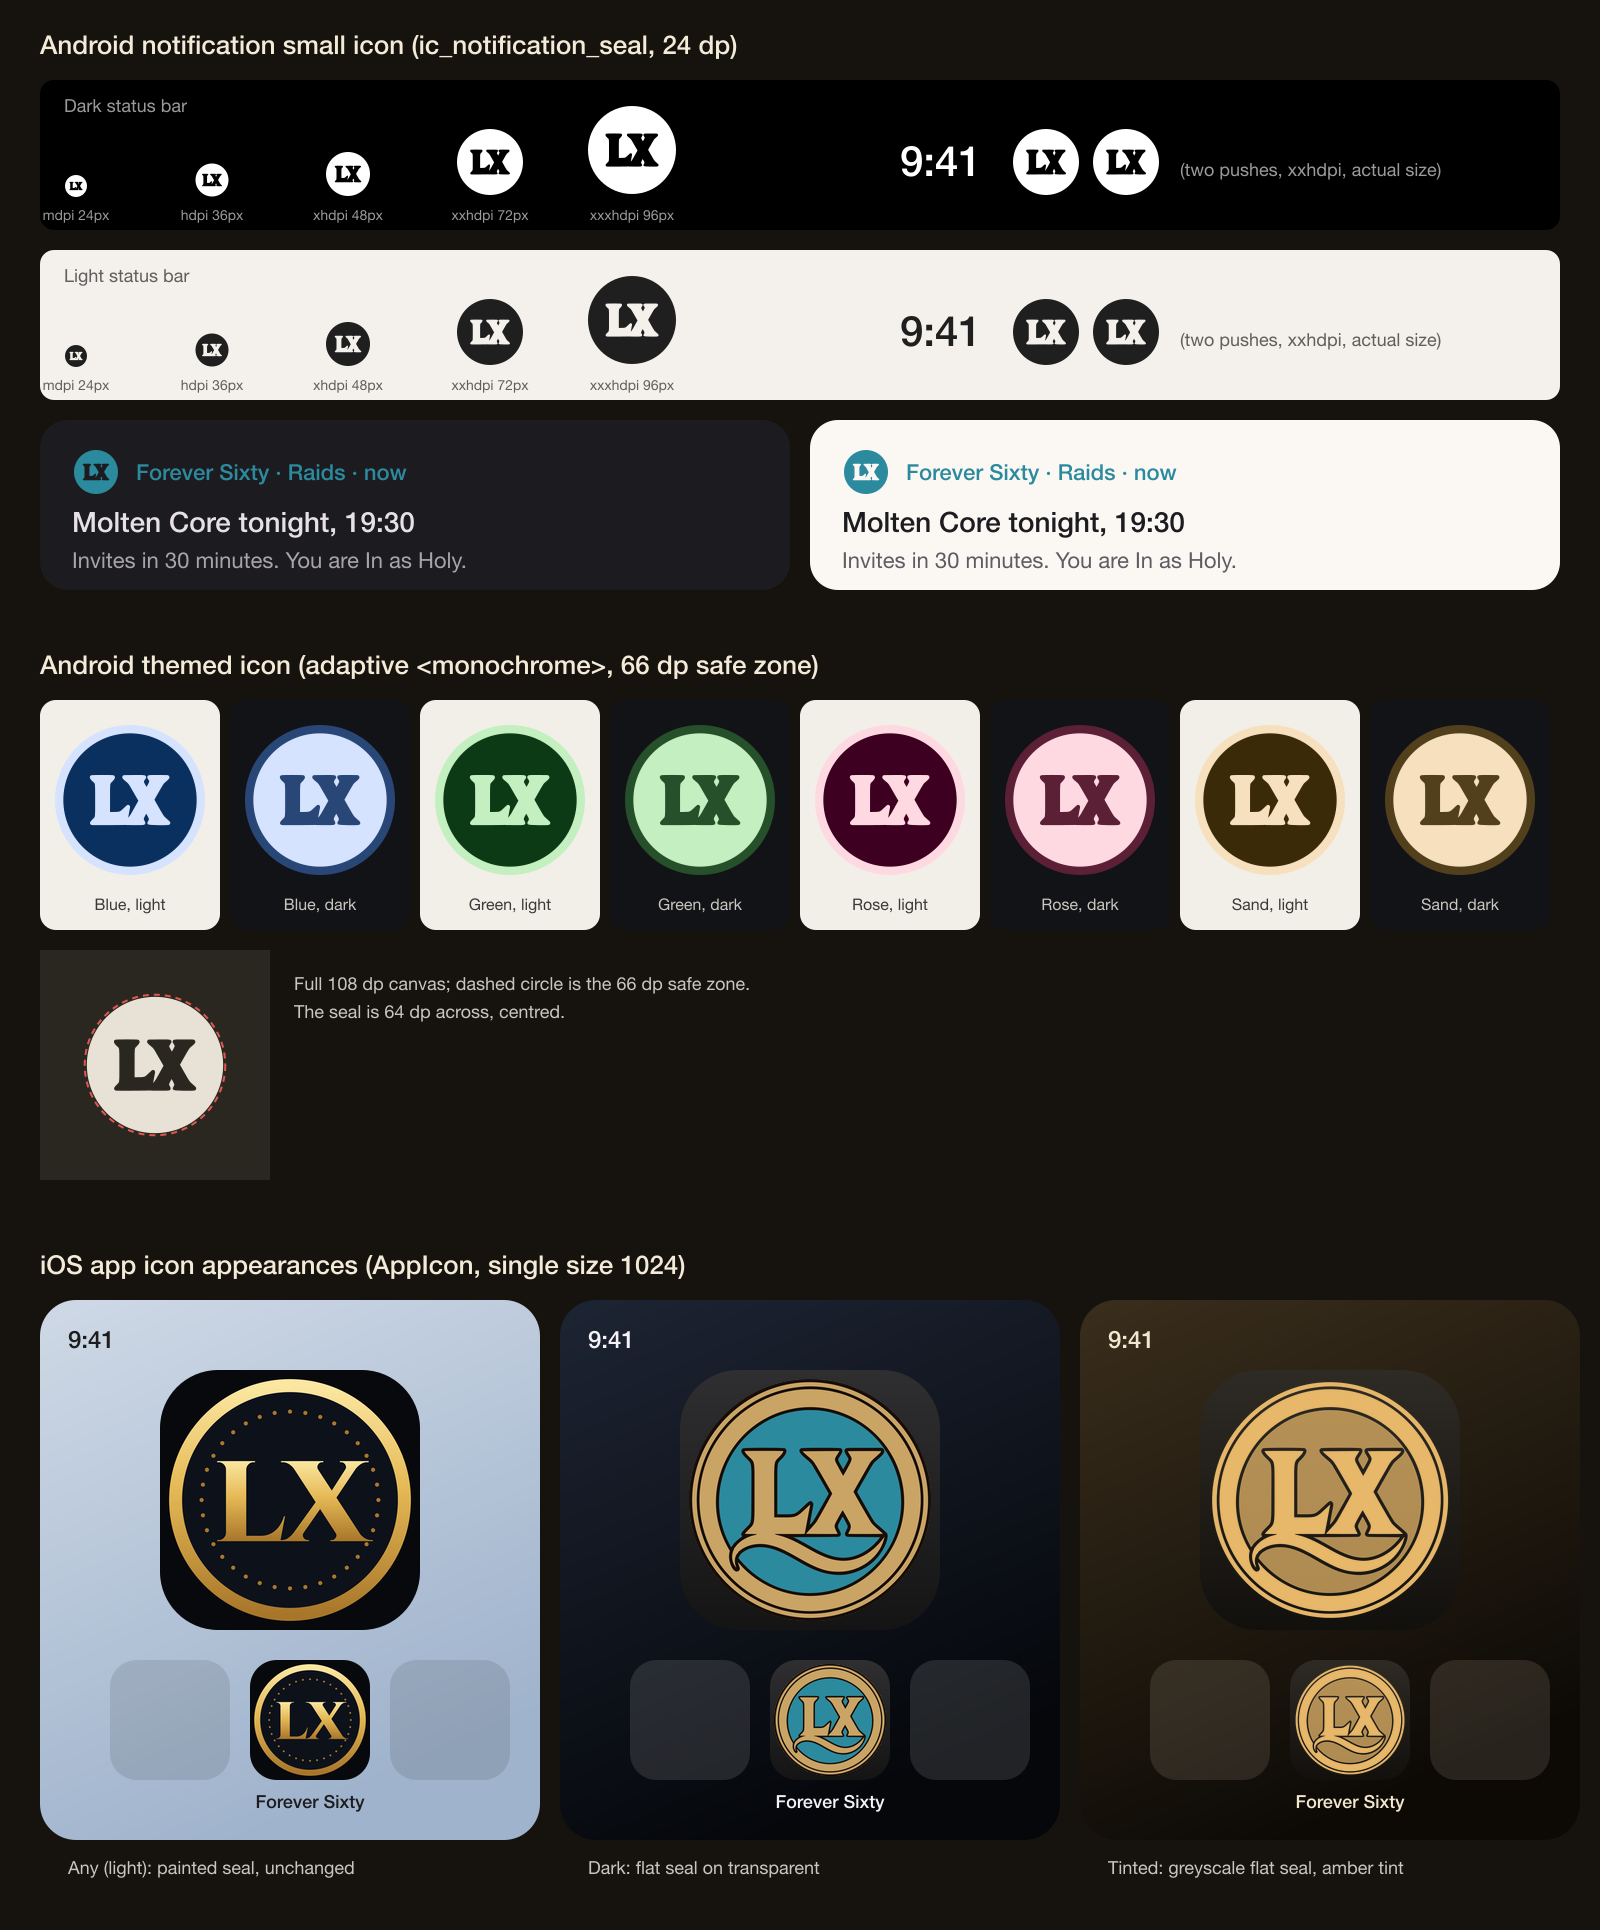
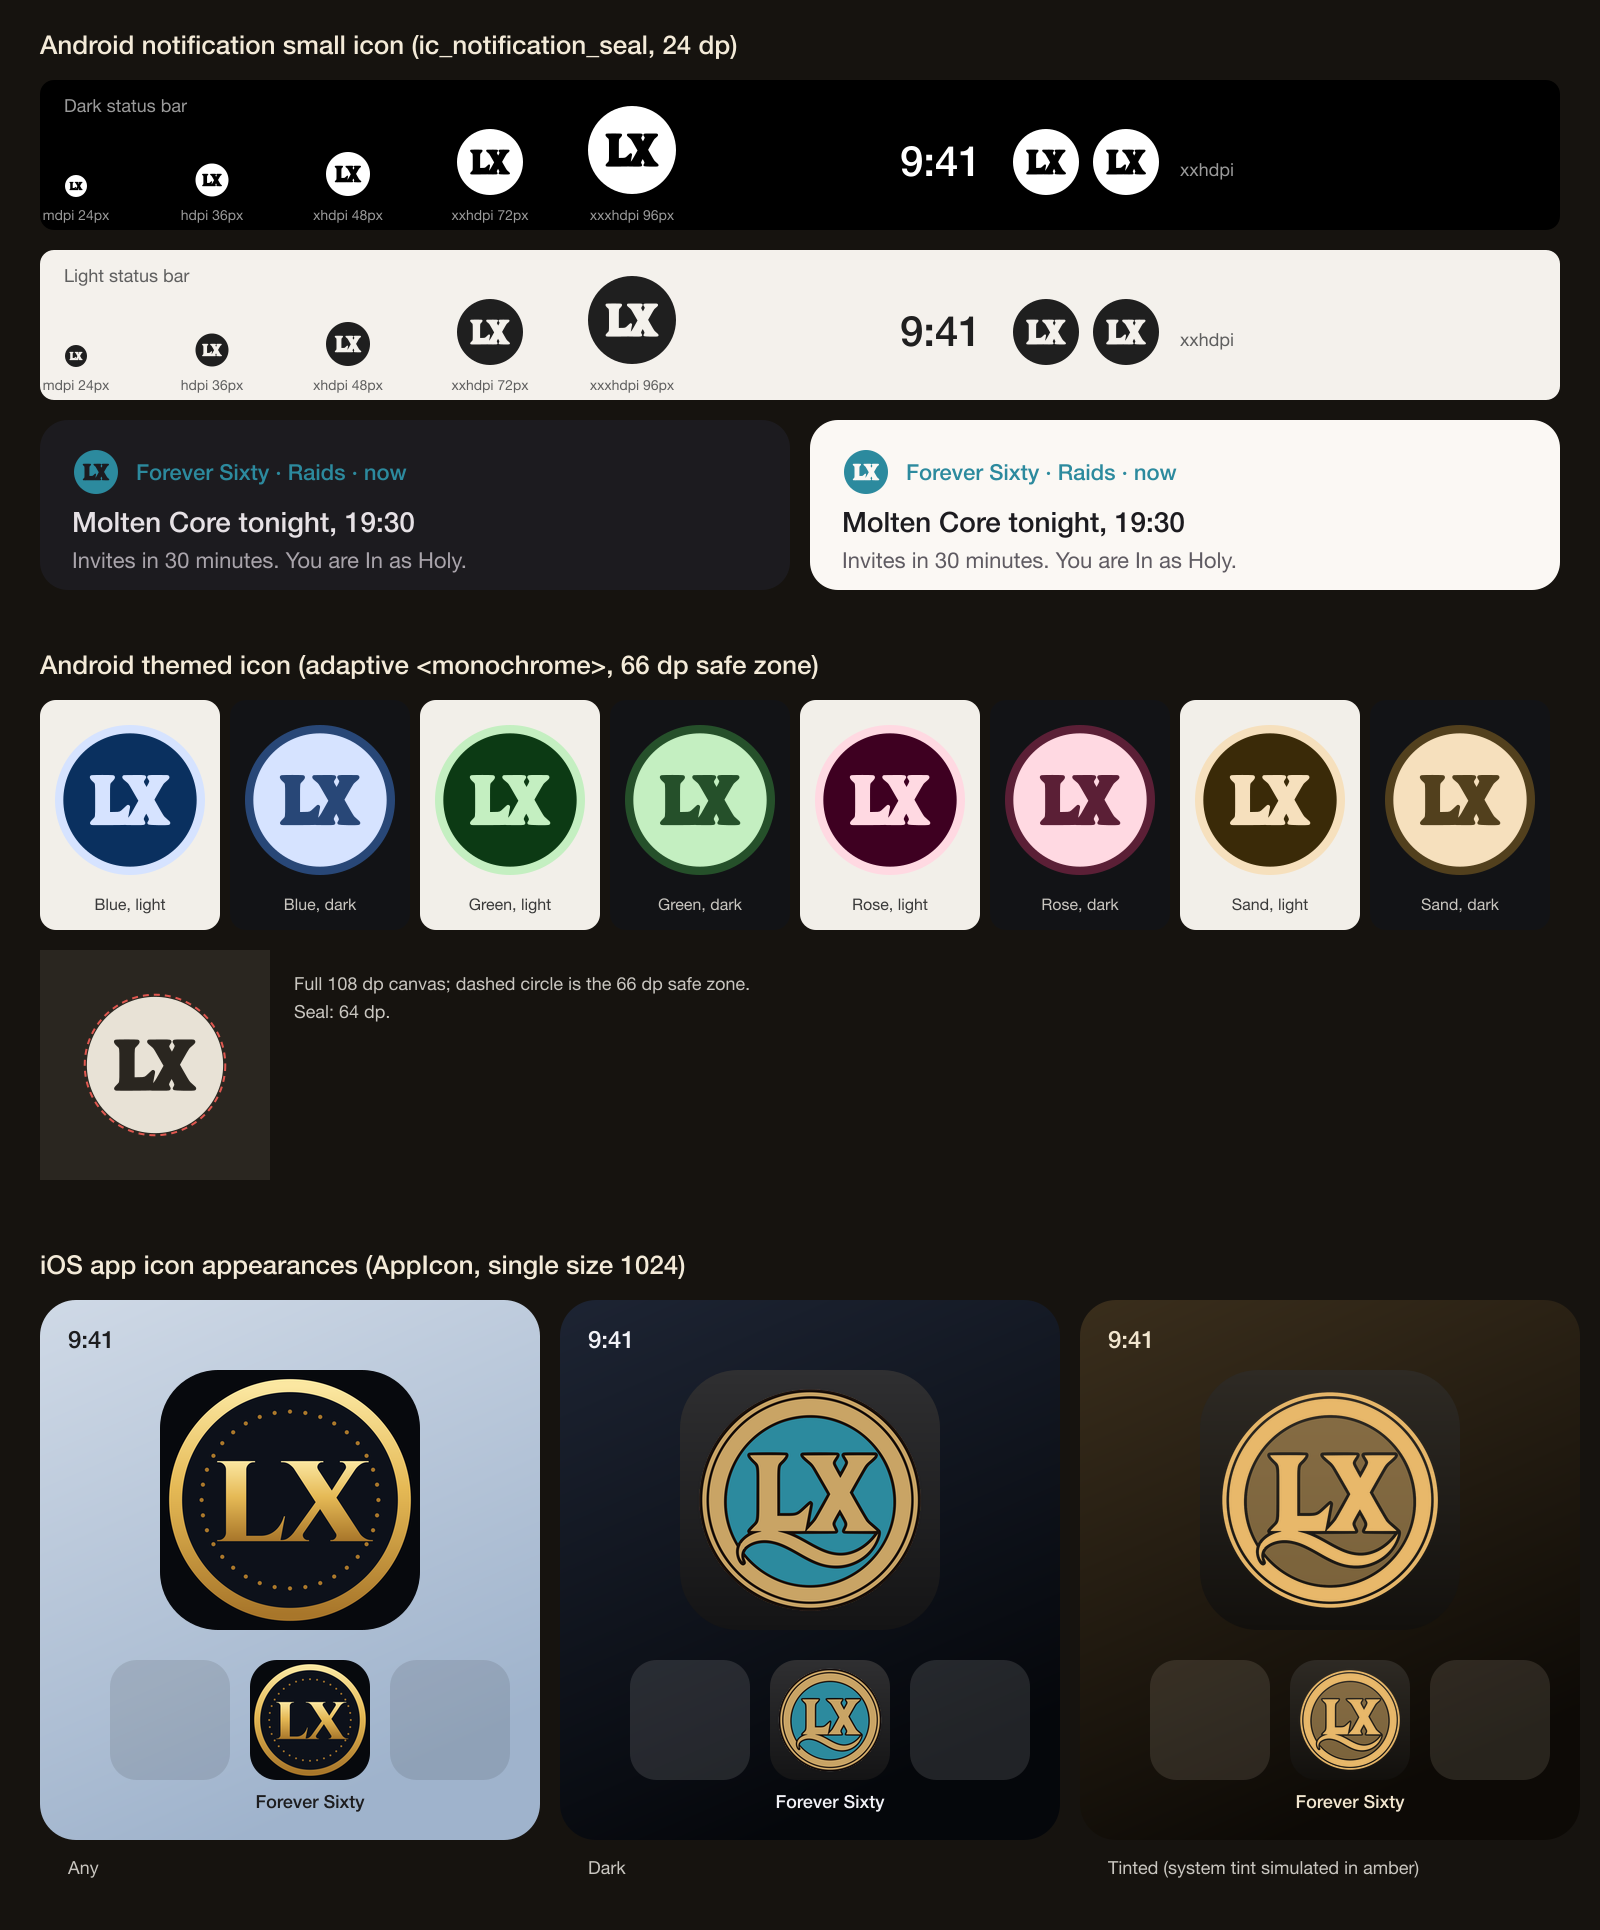
fix(apps): inset the flat seal on iOS dark/tinted, tinted disc to mid grey; review verdicts
ux-designer SHIP and ai-slop-reviewer PASS saved in design/reviews/2026-11-10-app-icons.

Claude-Session: https://claude.ai/code/session_01Wrtayzxz2jvhjren4pWihn

diff --git a/design/reviews/2026-11-10-app-icons/ux-designer.md b/design/reviews/2026-11-10-app-icons/ux-designer.md
@@ -1,0 +1,26 @@
+# ux-designer: app icon variants (2026-11-10)
+
+**Verdict: SHIP.** No must-fix items.
+
+Reviewed: `preview.png`, the drawables, `ic_launcher.xml`, the AppIcon set and the generators, at commit 78e72f574.
+
+## Should
+1. **LiveNotifier keeps gold.**
+   - Live raid and sim notifications use `setColor(FsColor.gold)`, while every other push uses turquoise.
+   - Gold should stay only if the progress bar needs it. Otherwise move LiveNotifier to `PushNotifier.builder`.
+   - Gold header text on a light shade is about 2.3:1.
+   - **Status:** left for the owner, because this lane stays out of LiveNotifier while the Android restyle lands.
+2. **iOS Dark filled the tile edge to edge.** It needed a 6 to 8% inset.
+   - **Fixed:** the flat seal is now drawn at 85% of the canvas, which is a 7.5% margin.
+3. **Tinted could merge with the system background.** Check on a device.
+   - **Adjusted:** a levels curve now puts the disc at mid grey (about 120), apart from both the white LX and the black outline.
+   - Still needs a device check. The simulator is unavailable on this Mac.
+4. **mdpi serifs are about 1 px.** The icon reads as LX but only just. Check once on an mdpi emulator. This is polish.
+
+## Checks passed
+- **Notification icon:** `ic_notification_seal` is white on transparent, 22 dp inside the 24 dp grid. FCM's default icon and colour are set in the manifest.
+- **Push builders:** both share `PushNotifier.builder`.
+- **Themed icon:** the `<monochrome>` layer is 64 dp, inside the 66 dp safe zone. It reads in all eight tints.
+- **iOS asset catalog:** `Contents.json` is valid, with the dark and tinted luminosity appearances. Any is unchanged.
+- **Palette:** Dark uses only the three brand colours.
+- **Build output:** the generated `mipmap-anydpi-v26/ic_launcher.xml` in the build carries the `<monochrome>` line.

diff --git a/design/reviews/2026-11-10-app-icons/ai-slop-reviewer.md b/design/reviews/2026-11-10-app-icons/ai-slop-reviewer.md
@@ -1,0 +1,20 @@
+# ai-slop-reviewer: app icon variants (2026-11-10)
+
+**Verdict: PASS (with fixes, applied).**
+
+No hard tells were found:
+- no glow, no decorative gradient, no glass;
+- the art is the owner's flat seal, not redrawn.
+
+The reviewer called these authentic:
+- one mark across Any, Dark, Tinted, the notification icon and the themed icon;
+- the knocked-out disc that stays legible at mdpi 24 px;
+- the notification copy, written in a player's voice.
+
+## Findings and fixes
+1. **Captions on the sheet over-explained** (tell 22, sheet chrome only). **Fixed:** the captions are now "Any", "Dark", "Tinted (system tint simulated in amber)", "xxhdpi" and "Seal: 64 dp."
+2. **Labels were set in system sans** (tell 14, review-aid chrome, not shipped). No change.
+3. **Tinted contrast:** the disc (about #B8B8B8) sat too close to the white LX. **Fixed:** a levels curve takes the disc to about #787878. The LX now separates clearly from the disc, and the disc from the outline. The amber in the sheet simulates the system tint; the shipped file is greyscale.
+4. **Dark alpha:** the reviewer asked to confirm that the background is transparent, not white. **Verified:** the file is RGBA, and its corners have alpha 0.
+
+Still open: check the Tinted contrast on a device once the iOS simulator or a device is available.
